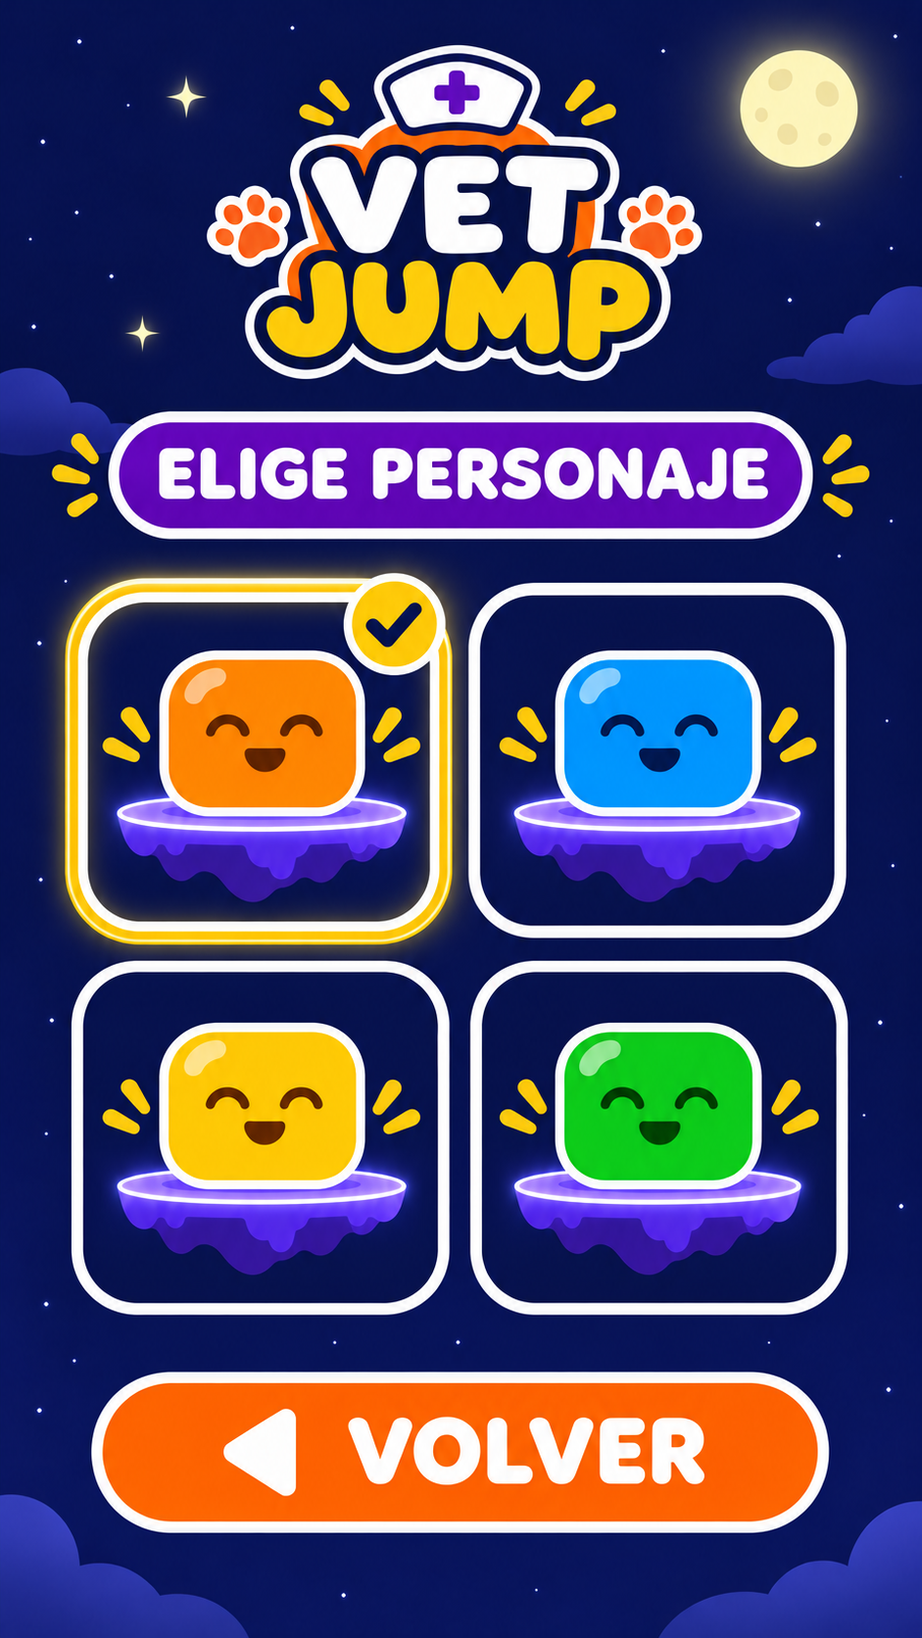
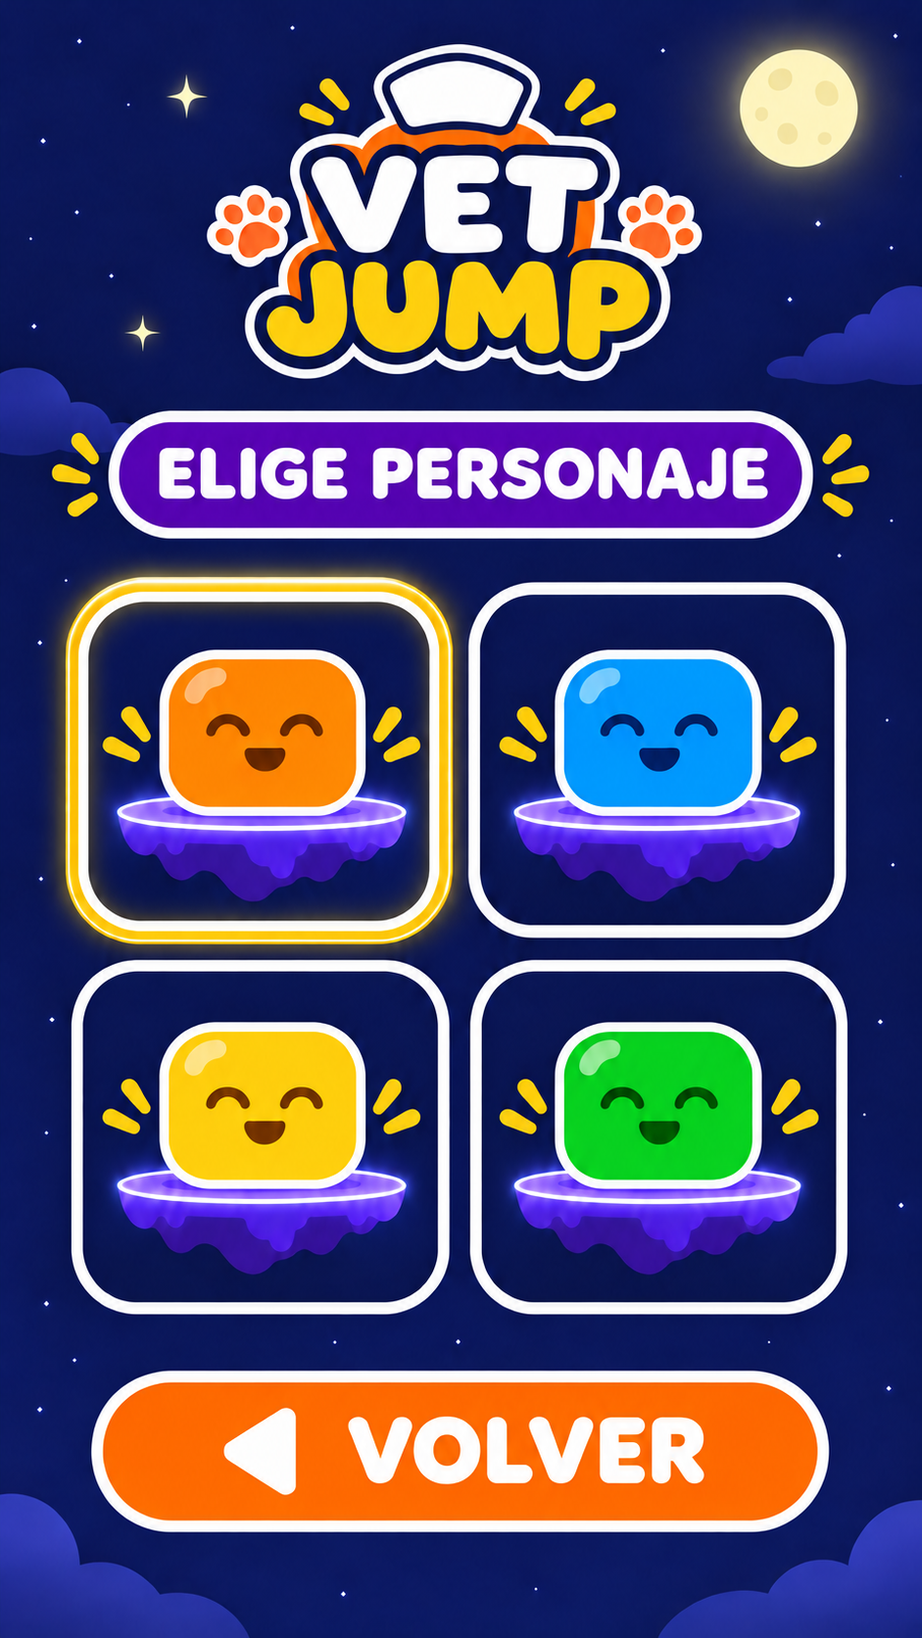
Prevent game scene crash and fix character selection

diff --git a/VetJUMP/GameViewController.swift b/VetJUMP/GameViewController.swift
@@ -19,11 +19,13 @@ final class GameViewController: UIViewController, GameSceneDelegate {
     private var correctCount = 0
     private var selectedAnswer: String?
     private var lastReportedInfiniteScore = 0
+    private var lastSavedRunSignature = ""
     private var fruitInfoOpenedFromGame = false
     private let overlay = UIView()
     private let panel = UIStackView()
     private let menuArtwork = UIImageView()
     private var menuActionButtons: [UIButton] = []
+    private var menuDecorationViews: [UIView] = []
 
     override func viewDidLoad() { super.viewDidLoad(); configureView(); NotificationCenter.default.addObserver(self, selector: #selector(pauseForBackground), name: UIApplication.willResignActiveNotification, object: nil); NotificationCenter.default.addObserver(self, selector: #selector(resumeFromBackground), name: UIApplication.didBecomeActiveNotification, object: nil); authenticateGameCenter(); showHome() }
     override var supportedInterfaceOrientations: UIInterfaceOrientationMask { .portrait }
@@ -45,21 +47,22 @@ final class GameViewController: UIViewController, GameSceneDelegate {
         panel.axis = .vertical; panel.spacing = 12; panel.alignment = .fill; panel.translatesAutoresizingMaskIntoConstraints = false; panel.backgroundColor = UIColor(red: 0.06, green: 0.10, blue: 0.19, alpha: 0.98); panel.layer.cornerRadius = 24; panel.layoutMargins = UIEdgeInsets(top: 24, left: 20, bottom: 24, right: 20); panel.isLayoutMarginsRelativeArrangement = true; overlay.addSubview(panel); NSLayoutConstraint.activate([panel.centerYAnchor.constraint(equalTo: overlay.centerYAnchor), panel.leadingAnchor.constraint(equalTo: overlay.leadingAnchor, constant: 22), panel.trailingAnchor.constraint(equalTo: overlay.trailingAnchor, constant: -22), panel.heightAnchor.constraint(lessThanOrEqualTo: overlay.heightAnchor, multiplier: 0.86)])
     }
 
-    private func showHome() { ChiptunePlayer.shared.playMenu(); clearPanel(); showMenuArtwork(named: "home-menu"); addArtworkButton(label: "Jugar nivel \(progress.unlockedLevel)", x: 0.10, y: 0.51, width: 0.80, height: 0.10, action: #selector(startSelectedLevel)); addArtworkButton(label: "Elegir personaje", x: 0.10, y: 0.63, width: 0.80, height: 0.10, action: #selector(showCharacterSelection)); addArtworkButton(label: "Estadísticas clínicas", x: 0.10, y: 0.74, width: 0.80, height: 0.10, action: #selector(showStatistics)); addArtworkButton(label: progress.hasCompletedAllLevels ? "Modo infinito" : "Modo infinito bloqueado", x: 0.10, y: 0.85, width: 0.80, height: 0.11, action: progress.hasCompletedAllLevels ? #selector(startInfinite) : #selector(showInfiniteLocked)); overlay.isHidden = false }
-    private var characterName: String { ["Naranja", "Azul", "Amarillo", "Verde"][progress.selectedCharacter] }
-    @objc private func showCharacterSelection() { clearPanel(); showMenuArtwork(named: "character-menu"); addArtworkButton(label: "Personaje naranja", x: 0.06, y: 0.35, width: 0.43, height: 0.22, tag: 0, action: #selector(selectCharacter(_:))); addArtworkButton(label: "Personaje azul", x: 0.51, y: 0.35, width: 0.43, height: 0.22, tag: 1, action: #selector(selectCharacter(_:))); addArtworkButton(label: "Personaje amarillo", x: 0.06, y: 0.59, width: 0.43, height: 0.22, tag: 2, action: #selector(selectCharacter(_:))); addArtworkButton(label: "Personaje verde", x: 0.51, y: 0.59, width: 0.43, height: 0.22, tag: 3, action: #selector(selectCharacter(_:))); addArtworkButton(label: "Volver al inicio", x: 0.10, y: 0.85, width: 0.80, height: 0.10, action: #selector(showHomeAction)); overlay.isHidden = false }
-    @objc private func selectCharacter(_ sender: UIButton) { progress.selectedCharacter = sender.tag; ProgressStore.shared.save(progress); showCharacterSelection() }
+    private func showHome() { ChiptunePlayer.shared.playMenu(); clearPanel(); if showMenuArtwork(named: "home-menu") { addArtworkButton(label: "Jugar nivel \(progress.unlockedLevel)", x: 0.10, y: 0.51, width: 0.80, height: 0.10, action: #selector(startSelectedLevel)); addArtworkButton(label: "Elegir personaje", x: 0.10, y: 0.63, width: 0.80, height: 0.10, action: #selector(showCharacterSelection)); addArtworkButton(label: "Estadísticas clínicas", x: 0.10, y: 0.74, width: 0.80, height: 0.10, action: #selector(showStatistics)); addArtworkButton(label: progress.hasCompletedAllLevels ? "Modo infinito" : "Modo infinito bloqueado", x: 0.10, y: 0.85, width: 0.80, height: 0.11, action: progress.hasCompletedAllLevels ? #selector(startInfinite) : #selector(showInfiniteLocked)) } else { addTitle("VET JUMP", subtitle: "Arcade clínico · 5 niveles · 500 plataformas"); addButton("Jugar nivel \(progress.unlockedLevel)", action: #selector(startSelectedLevel)); addButton("Elegir personaje · \(characterName)", action: #selector(showCharacterSelection)); addButton("Estadísticas clínicas", action: #selector(showStatistics)); addButton(progress.hasCompletedAllLevels ? "Modo infinito ♾" : "Modo infinito 🔒", action: progress.hasCompletedAllLevels ? #selector(startInfinite) : #selector(showInfiniteLocked)) }; overlay.isHidden = false }
+    private var selectedCharacterIndex: Int { min(max(progress.selectedCharacter, 0), 3) }
+    private var characterName: String { ["Naranja", "Azul", "Amarillo", "Verde"][selectedCharacterIndex] }
+    @objc private func showCharacterSelection() { clearPanel(); if showMenuArtwork(named: "character-menu") { addArtworkButton(label: "Personaje naranja", x: 0.06, y: 0.35, width: 0.43, height: 0.22, tag: 0, action: #selector(selectCharacter(_:))); addArtworkButton(label: "Personaje azul", x: 0.51, y: 0.35, width: 0.43, height: 0.22, tag: 1, action: #selector(selectCharacter(_:))); addArtworkButton(label: "Personaje amarillo", x: 0.06, y: 0.59, width: 0.43, height: 0.22, tag: 2, action: #selector(selectCharacter(_:))); addArtworkButton(label: "Personaje verde", x: 0.51, y: 0.59, width: 0.43, height: 0.22, tag: 3, action: #selector(selectCharacter(_:))); addCharacterSelectionIndicator(); addArtworkButton(label: "Volver al inicio", x: 0.10, y: 0.85, width: 0.80, height: 0.10, action: #selector(showHomeAction)) } else { addTitle("ELIGE PERSONAJE", subtitle: "Toca el personaje que quieres usar"); for (index, name) in ["Naranja", "Azul", "Amarillo", "Verde"].enumerated() { let button = UIButton(type: .system); button.tag = index; button.setTitle("\(selectedCharacterIndex == index ? "✓ " : "")\(name)", for: .normal); button.setTitleColor(.white, for: .normal); button.backgroundColor = [.systemOrange, .systemBlue, .systemYellow, .systemGreen][index]; button.layer.cornerRadius = 13; button.heightAnchor.constraint(equalToConstant: 50).isActive = true; button.addTarget(self, action: #selector(selectCharacter(_:)), for: .touchUpInside); panel.addArrangedSubview(button) }; addButton("Volver", action: #selector(showHomeAction)) }; overlay.isHidden = false }
+    @objc private func selectCharacter(_ sender: UIButton) { progress.selectedCharacter = min(max(sender.tag, 0), 3); ProgressStore.shared.save(progress); showCharacterSelection() }
     @objc private func startSelectedLevel() { start(level: progress.unlockedLevel, infinite: false) }
     @objc private func startInfinite() { guard progress.hasCompletedAllLevels else { showInfiniteLocked(); return }; start(level: 5, infinite: true) }
     @objc private func showInfiniteLocked() { clearPanel(); addTitle("Modo infinito bloqueado", subtitle: "Supera los cinco niveles y sus exámenes finales para desbloquearlo."); addButton("Volver", action: #selector(showHomeAction)); overlay.isHidden = false }
-    private func start(level: Int, infinite: Bool) { let scene = GameScene(size: spriteView.bounds.size); scene.scaleMode = .resizeFill; scene.gameDelegate = self; gameScene = scene; spriteView.presentScene(scene); scene.begin(level: level, progress: progress, infinite: infinite); ChiptunePlayer.shared.updateGameMusic(level: level, platform: scene.platformIndex, infinite: infinite); overlay.isHidden = true }
+    private func start(level: Int, infinite: Bool) { let scene = GameScene(size: spriteView.bounds.size); scene.scaleMode = .resizeFill; scene.gameDelegate = self; gameScene = scene; lastSavedRunSignature = ""; spriteView.presentScene(scene); scene.begin(level: level, progress: progress, infinite: infinite); overlay.isHidden = true }
 
     private func addTitle(_ title: String, subtitle: String) { let titleLabel = UILabel(); titleLabel.text = title; titleLabel.font = .systemFont(ofSize: 30, weight: .heavy); titleLabel.textColor = .systemYellow; titleLabel.textAlignment = .center; panel.addArrangedSubview(titleLabel); let subtitleLabel = UILabel(); subtitleLabel.text = subtitle; subtitleLabel.font = .systemFont(ofSize: 15, weight: .medium); subtitleLabel.textColor = .white; subtitleLabel.numberOfLines = 0; subtitleLabel.textAlignment = .center; panel.addArrangedSubview(subtitleLabel) }
     private func addFootnote(_ text: String) { let label = UILabel(); label.text = text; label.textColor = .lightGray; label.numberOfLines = 0; label.font = .systemFont(ofSize: 12); label.textAlignment = .center; panel.addArrangedSubview(label) }
     private func addButton(_ title: String, action: Selector) { let button = UIButton(type: .system); button.setTitle(title, for: .normal); button.titleLabel?.font = .systemFont(ofSize: 17, weight: .bold); button.setTitleColor(.black, for: .normal); button.backgroundColor = .systemYellow; button.layer.cornerRadius = 13; button.heightAnchor.constraint(equalToConstant: 50).isActive = true; button.addTarget(self, action: action, for: .touchUpInside); panel.addArrangedSubview(button) }
-    private func clearPanel() { panel.arrangedSubviews.forEach { $0.removeFromSuperview() }; menuActionButtons.forEach { $0.removeFromSuperview() }; menuActionButtons.removeAll(); menuArtwork.isHidden = true; panel.isHidden = false; overlay.backgroundColor = UIColor.black.withAlphaComponent(0.62) }
+    private func clearPanel() { panel.arrangedSubviews.forEach { $0.removeFromSuperview() }; menuActionButtons.forEach { $0.removeFromSuperview() }; menuActionButtons.removeAll(); menuDecorationViews.forEach { $0.removeFromSuperview() }; menuDecorationViews.removeAll(); menuArtwork.isHidden = true; panel.isHidden = false; overlay.backgroundColor = UIColor.black.withAlphaComponent(0.62) }
 
-    func gameScene(_ scene: GameScene, didUpdateHUD score: Int, platform: Int, lives: Int, level: Int, energy: CGFloat) { scoreLabel.text = "⭐ \(score)"; progressLabel.text = scene.isInfinite ? "∞ \(platform)" : "\(platform)/100"; livesLabel.text = "🍎 \(max(lives, 0))"; self.energy.progress = Float(energy); ChiptunePlayer.shared.updateGameMusic(level: level, platform: platform, infinite: scene.isInfinite); if scene.isInfinite && score >= lastReportedInfiniteScore + 10 { lastReportedInfiniteScore = score; reportScore(score, leaderboard: "vet_jump_infinite_score") }; scene.snapshot(into: &progress); ProgressStore.shared.save(progress) }
+    func gameScene(_ scene: GameScene, didUpdateHUD score: Int, platform: Int, lives: Int, level: Int, energy: CGFloat) { scoreLabel.text = "⭐ \(score)"; progressLabel.text = scene.isInfinite ? "∞ \(platform)" : "\(platform)/100"; livesLabel.text = "🍎 \(max(lives, 0))"; self.energy.progress = Float(energy); ChiptunePlayer.shared.updateGameMusic(level: level, platform: platform, infinite: scene.isInfinite); if scene.isInfinite && score >= lastReportedInfiniteScore + 10 { lastReportedInfiniteScore = score; reportScore(score, leaderboard: "vet_jump_infinite_score") }; scene.snapshot(into: &progress); let signature = "\(scene.isInfinite)-\(level)-\(platform)-\(score)-\(lives)"; if signature != lastSavedRunSignature { lastSavedRunSignature = signature; ProgressStore.shared.save(progress) } }
     func gameScene(_ scene: GameScene, requestExam kind: ExamKind) { ChiptunePlayer.shared.stopForQuestion(); currentExamKind = kind; currentExam = questionService.exam(kind: kind, level: scene.level, excluding: progress.answeredQuestionIDs); questionIndex = 0; correctCount = 0; selectedAnswer = nil; presentQuestion() }
     func gameSceneDidFinishLevel(_ scene: GameScene) { ChiptunePlayer.shared.stopForQuestion(); currentExamKind = .final; currentExam = questionService.exam(kind: .final, level: scene.level, excluding: progress.answeredQuestionIDs); questionIndex = 0; correctCount = 0; presentQuestion() }
     func gameSceneDidEndGame(_ scene: GameScene) { showEndGame("Fin de partida", detail: "No has superado el examen. Puedes intentarlo de nuevo desde la plataforma 0 del nivel.") }
@@ -77,8 +80,10 @@ final class GameViewController: UIViewController, GameSceneDelegate {
     @objc private func toggleMusic() { _ = ChiptunePlayer.shared.toggleMuted(); updateMusicButton() }
     private func updateMusicButton() { musicButton.setTitle(ChiptunePlayer.shared.isMuted ? "🔇" : "🔊", for: .normal) }
     private func addQuestionProgress() { let label = UILabel(); label.text = "Pregunta \(questionIndex + 1)/\(currentExam.count) · aciertos \(correctCount)"; label.font = .systemFont(ofSize: 17, weight: .bold); label.textColor = .white; label.textAlignment = .center; label.backgroundColor = UIColor.systemPurple.withAlphaComponent(0.68); label.layer.cornerRadius = 14; label.clipsToBounds = true; label.heightAnchor.constraint(equalToConstant: 42).isActive = true; panel.addArrangedSubview(label) }
-    private func showMenuArtwork(named name: String) { guard let url = Bundle.main.url(forResource: name, withExtension: "png", subdirectory: "MenuArtwork"), let image = UIImage(contentsOfFile: url.path) else { return }; menuArtwork.image = image; menuArtwork.isHidden = false; panel.isHidden = true; overlay.backgroundColor = .clear }
+    @discardableResult
+    private func showMenuArtwork(named name: String) -> Bool { let url = Bundle.main.url(forResource: name, withExtension: "png", subdirectory: "MenuArtwork") ?? Bundle.main.url(forResource: name, withExtension: "png"); guard let url, let image = UIImage(contentsOfFile: url.path) else { return false }; menuArtwork.image = image; menuArtwork.isHidden = false; panel.isHidden = true; overlay.backgroundColor = .clear; return true }
     private func addArtworkButton(label: String, x: CGFloat, y: CGFloat, width: CGFloat, height: CGFloat, tag: Int = 0, action: Selector) { let button = UIButton(type: .custom); button.translatesAutoresizingMaskIntoConstraints = false; button.tag = tag; button.accessibilityLabel = label; button.backgroundColor = .clear; button.addTarget(self, action: action, for: .touchUpInside); overlay.addSubview(button); NSLayoutConstraint.activate([NSLayoutConstraint(item: button, attribute: .leading, relatedBy: .equal, toItem: overlay, attribute: .trailing, multiplier: x, constant: 0), NSLayoutConstraint(item: button, attribute: .top, relatedBy: .equal, toItem: overlay, attribute: .bottom, multiplier: y, constant: 0), button.widthAnchor.constraint(equalTo: overlay.widthAnchor, multiplier: width), button.heightAnchor.constraint(equalTo: overlay.heightAnchor, multiplier: height)]); menuActionButtons.append(button) }
+    private func addCharacterSelectionIndicator() { let positions: [(CGFloat, CGFloat)] = [(0.39, 0.35), (0.84, 0.35), (0.39, 0.59), (0.84, 0.59)]; let position = positions[selectedCharacterIndex]; let badge = UILabel(); badge.translatesAutoresizingMaskIntoConstraints = false; badge.text = "✓"; badge.font = .systemFont(ofSize: 28, weight: .heavy); badge.textColor = .white; badge.textAlignment = .center; badge.backgroundColor = .systemYellow; badge.layer.cornerRadius = 25; badge.layer.borderWidth = 3; badge.layer.borderColor = UIColor.white.cgColor; badge.clipsToBounds = true; overlay.addSubview(badge); NSLayoutConstraint.activate([NSLayoutConstraint(item: badge, attribute: .leading, relatedBy: .equal, toItem: overlay, attribute: .trailing, multiplier: position.0, constant: 0), NSLayoutConstraint(item: badge, attribute: .top, relatedBy: .equal, toItem: overlay, attribute: .bottom, multiplier: position.1, constant: 0), badge.widthAnchor.constraint(equalToConstant: 50), badge.heightAnchor.constraint(equalToConstant: 50)]); let status = UILabel(); status.translatesAutoresizingMaskIntoConstraints = false; status.text = "✓ \(characterName) seleccionado"; status.font = .systemFont(ofSize: 14, weight: .bold); status.textColor = .white; status.textAlignment = .center; status.backgroundColor = UIColor.black.withAlphaComponent(0.45); status.layer.cornerRadius = 12; status.clipsToBounds = true; overlay.addSubview(status); NSLayoutConstraint.activate([status.centerXAnchor.constraint(equalTo: overlay.centerXAnchor), NSLayoutConstraint(item: status, attribute: .top, relatedBy: .equal, toItem: overlay, attribute: .bottom, multiplier: 0.31, constant: 0), status.widthAnchor.constraint(equalTo: overlay.widthAnchor, multiplier: 0.50), status.heightAnchor.constraint(equalToConstant: 30)]); menuDecorationViews.append(contentsOf: [badge, status]) }
     @objc private func showStatistics() { clearPanel(); addTitle("Estadísticas clínicas", subtitle: "Aciertos por especialidad"); for (area, stat) in progress.subjectStats.sorted(by: { $0.key < $1.key }) { addFootnote("\(area): \(stat.correct)/\(stat.total) (\(stat.total == 0 ? 0 : stat.correct * 100 / stat.total)%)") }; addButton("Volver", action: #selector(showHomeAction)); overlay.isHidden = false }
     private func authenticateGameCenter() { GKLocalPlayer.local.authenticateHandler = { [weak self] controller, error in if let controller { self?.present(controller, animated: true) } else if let error { print("Game Center: \(error.localizedDescription)") } } }
     private func reportScore(_ score: Int, leaderboard: String) { GKLeaderboard.submitScore(score, context: 0, player: GKLocalPlayer.local, leaderboardIDs: [leaderboard]) { error in if let error { print("Leaderboard: \(error.localizedDescription)") } } }

diff --git a/VetJUMP/GameScene.swift b/VetJUMP/GameScene.swift
@@ -37,17 +37,18 @@ final class GameScene: SKScene {
 
     override func didMove(to view: SKView) { backgroundColor = themeColor; setupPlayer(); startMotion() }
     override func willMove(from view: SKView) { motionManager.stopDeviceMotionUpdates() }
-    var themeColor: SKColor { [SKColor(red: 0.04, green: 0.07, blue: 0.16, alpha: 1), SKColor(red: 0.03, green: 0.20, blue: 0.12, alpha: 1), SKColor(red: 0.28, green: 0.13, blue: 0.03, alpha: 1), SKColor(red: 0.08, green: 0.22, blue: 0.32, alpha: 1), SKColor(red: 0.12, green: 0.05, blue: 0.25, alpha: 1)][min(level - 1, 4)] }
+    private var levelIndex: Int { min(max(level - 1, 0), 4) }
+    var themeColor: SKColor { [SKColor(red: 0.04, green: 0.07, blue: 0.16, alpha: 1), SKColor(red: 0.03, green: 0.20, blue: 0.12, alpha: 1), SKColor(red: 0.28, green: 0.13, blue: 0.03, alpha: 1), SKColor(red: 0.08, green: 0.22, blue: 0.32, alpha: 1), SKColor(red: 0.12, green: 0.05, blue: 0.25, alpha: 1)][levelIndex] }
 
     func begin(level: Int, progress: PlayerProgress, infinite: Bool = false) {
-        self.level = level; isInfinite = infinite; platformIndex = infinite ? progress.infinitePlatform : progress.platform; score = infinite ? progress.infiniteScore : progress.score; lives = max(progress.lives, 1)
+        self.level = min(max(level, 1), 5); isInfinite = infinite; platformIndex = max(0, infinite ? progress.infinitePlatform : min(progress.platform, 100)); score = max(0, infinite ? progress.infiniteScore : progress.score); lives = max(progress.lives, 1)
         state = .ready; velocity = .zero; glideEnergy = 1; elapsed = 0; lastUpdate = 0; collectedFruitPlatforms.removeAll(); pendingFruit = nil; rescueFromFall = false; zeroLifeFallCount = 0
         removeAllChildren(); platforms.removeAll(); motions.removeAll(); fruits.removeAll(); backgroundColor = themeColor
         setupBackdrop(); setupPlayer(); buildCourse(); placePlayer(on: platformIndex); reportHUD()
     }
 
     private func setupPlayer() {
-        player.removeAllChildren(); player.removeFromParent(); let character = ProgressStore.shared.load().selectedCharacter % 4; player.fillColor = [SKColor(red: 1, green: 0.53, blue: 0.13, alpha: 1), SKColor(red: 0.05, green: 0.55, blue: 0.95, alpha: 1), SKColor(red: 1, green: 0.78, blue: 0.10, alpha: 1), SKColor(red: 0.23, green: 0.76, blue: 0.39, alpha: 1)][character]; player.strokeColor = .white.withAlphaComponent(0.60); player.lineWidth = 1.5; player.zPosition = 10
+        player.removeAllChildren(); player.removeFromParent(); let character = min(max(ProgressStore.shared.load().selectedCharacter, 0), 3); player.fillColor = [SKColor(red: 1, green: 0.53, blue: 0.13, alpha: 1), SKColor(red: 0.05, green: 0.55, blue: 0.95, alpha: 1), SKColor(red: 1, green: 0.78, blue: 0.10, alpha: 1), SKColor(red: 0.23, green: 0.76, blue: 0.39, alpha: 1)][character]; player.strokeColor = .white.withAlphaComponent(0.60); player.lineWidth = 1.5; player.zPosition = 10
         let highlight = SKShapeNode(rectOf: CGSize(width: 18, height: 4), cornerRadius: 2); highlight.fillColor = .white.withAlphaComponent(0.23); highlight.strokeColor = .clear; highlight.position = CGPoint(x: -2, y: 10); player.addChild(highlight)
         for (eye, pupil, x) in [(leftEye, leftPupil, -8), (rightEye, rightPupil, 8)] { eye.fillColor = .white; eye.strokeColor = .clear; eye.position = CGPoint(x: x, y: 3); pupil.fillColor = SKColor(red: 0.08, green: 0.12, blue: 0.20, alpha: 1); pupil.strokeColor = .clear; eye.addChild(pupil); player.addChild(eye) }
         for brow in [leftBrow, rightBrow] { brow.strokeColor = SKColor(red: 0.34, green: 0.12, blue: 0.03, alpha: 1); brow.lineWidth = 2.6; brow.lineCap = .round; brow.isHidden = true; player.addChild(brow) }
@@ -190,8 +191,8 @@ final class GameScene: SKScene {
         for step in 0..<40 { simulatedVelocity.dy += gravity * 0.045; let previous = point; point.x += simulatedVelocity.dx * 0.045; point.y -= simulatedVelocity.dy * 0.045; if step.isMultiple(of: 2) { path.move(to: previous); path.addLine(to: point) }; if let target, simulatedVelocity.dy > 0, previous.y - player.frame.height / 2 >= target.position.y + target.size.height / 2, point.y - player.frame.height / 2 <= target.position.y + target.size.height / 2 { landing = point; break } }
         preview.path = path; landingMarker.position = landing ?? point; let viable = landing.map { point in guard let target else { return false }; return point.x + player.frame.width / 2 >= target.position.x - target.size.width / 2 && point.x - player.frame.width / 2 <= target.position.x + target.size.width / 2 } ?? false; landingMarker.strokeColor = viable ? .systemGreen : .systemRed
     }
-    private func updateCamera(delta: CGFloat) { guard player.position.x > size.width * 0.46 else { return }; let shift = (player.position.x - size.width * 0.34) * min(1, delta * 10); player.position.x -= shift; previousPosition.x -= shift; for platform in platforms { platform.position.x -= shift }; for (index, motion) in motions { motions[index] = Motion(axis: motion.axis, amplitude: motion.amplitude, period: motion.period, origin: CGPoint(x: motion.origin.x - shift, y: motion.origin.y)) }; for fruit in fruits { fruit.node.position.x -= shift }; preview.position.x -= shift; landingMarker.position.x -= shift }
-    private var glideDuration: CGFloat { [3, 2.5, 2, 1.5, 1][min(level - 1, 4)] }
+    private func updateCamera(delta: CGFloat) { guard player.position.x > size.width * 0.46 else { return }; let shift = (player.position.x - size.width * 0.34) * min(1, delta * 10); player.position.x -= shift; previousPosition.x -= shift; for platform in platforms { platform.position.x -= shift }; for index in Array(motions.keys) { guard let motion = motions[index] else { continue }; motions[index] = Motion(axis: motion.axis, amplitude: motion.amplitude, period: motion.period, origin: CGPoint(x: motion.origin.x - shift, y: motion.origin.y)) }; for fruit in fruits { fruit.node.position.x -= shift }; preview.position.x -= shift; landingMarker.position.x -= shift }
+    private var glideDuration: CGFloat { [3, 2.5, 2, 1.5, 1][levelIndex] }
     func snapshot(into progress: inout PlayerProgress) { if isInfinite { progress.infinitePlatform = platformIndex; progress.infiniteScore = score } else { progress.currentLevel = level; progress.platform = platformIndex; progress.score = score; progress.lives = lives } }
     private func reportHUD() { gameDelegate?.gameScene(self, didUpdateHUD: score, platform: platformIndex, lives: lives, level: level, energy: state == .charging ? power : glideEnergy) }
     private func startMotion() { guard motionManager.isDeviceMotionAvailable else { return }; motionManager.deviceMotionUpdateInterval = 1 / 60; motionManager.startDeviceMotionUpdates(to: .main) { [weak self] motion, _ in guard let self, let gravity = motion?.gravity else { return }; if self.motionBaseline == nil { self.motionBaseline = gravity }; guard let baseline = self.motionBaseline else { return }; let x = gravity.x - baseline.x; let y = gravity.y - baseline.y; self.calibratedTilt = CGVector(dx: abs(x) > 0.07 ? max(-0.7, min(0.7, x)) : 0, dy: abs(y) > 0.12 ? max(-0.7, min(0.7, y)) : 0) } }
